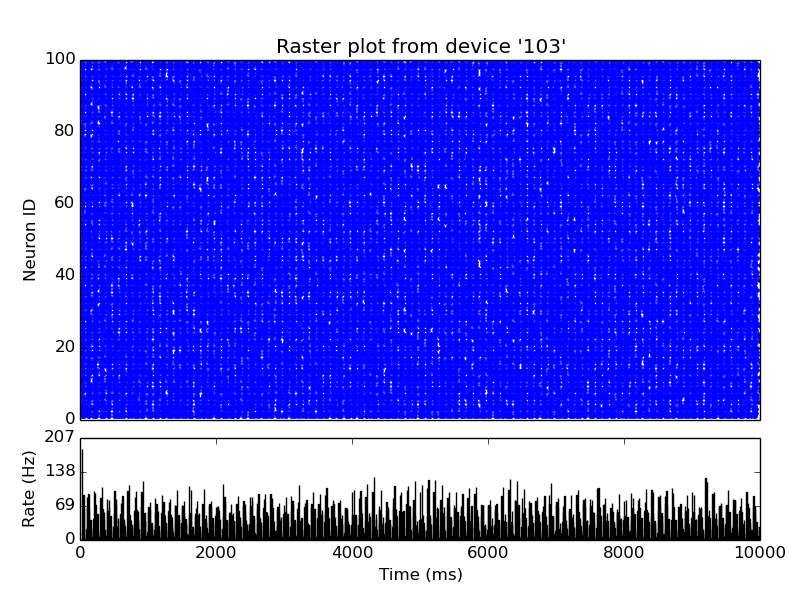
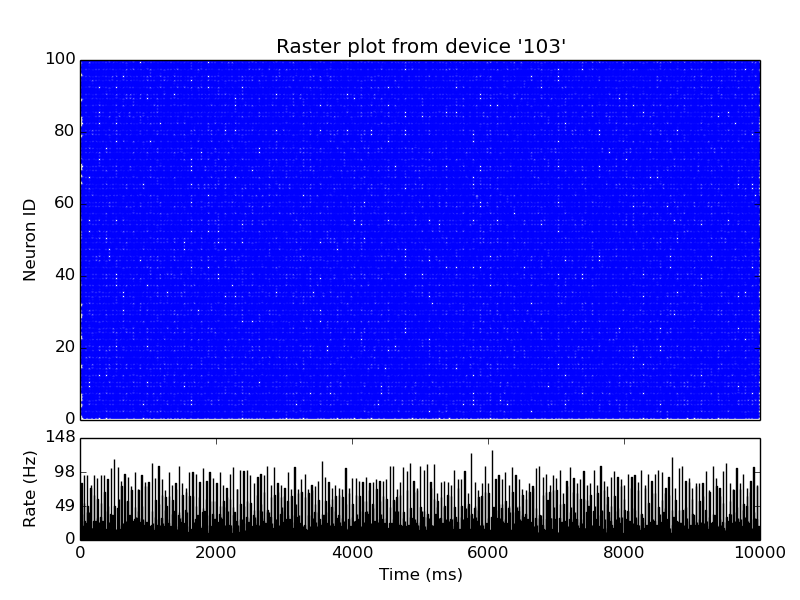
Added stockwell spectral analysis

diff --git a/analysis/analyze_stockwell.py b/analysis/analyze_stockwell.py
@@ -1,0 +1,43 @@
+#!/usr/bin/env python
+
+import numpy as np
+import pylab
+import matplotlib.pyplot as plt
+
+import stockwell.smt as smt
+import stockwell
+
+
+spike_file = 'spikes-103-0.gdf'
+
+voltage_file = 'voltages-104-0.dat'
+
+max_freq = 50
+bins = 1000
+t_sim = 10000
+
+freq_multiplier = t_sim / bins
+
+spikes = np.genfromtxt(spike_file, delimiter='\t')
+time = spikes[:,1]
+spike = np.zeros_like(spikes[:,1]) + 1
+
+h = np.histogram(time, bins)
+
+strans = smt.st(h[0], 0, max_freq*freq_multiplier)
+strans = abs(strans)
+
+plt.subplot(211)
+pylab.plot(h[0], '.')
+pylab.title('Binned spike counts')
+pylab.ylabel('Spike Count')
+
+plt.subplot(212)
+plt.imshow(strans, aspect='auto')
+plt.title('Stockwell spectogram')
+plt.ylabel('Frequency (Hz*' + str(freq_multiplier) + ')')
+plt.xlabel('Time (ms/' + str(freq_multiplier) + ')')
+
+plt.savefig('stockwell.png')
+plt.show()
+

diff --git a/analysis/poisson_generators.py b/analysis/poisson_generators.py
@@ -39,7 +39,7 @@ c = nest.Create('spg')
 nest.SetStatus(c, {
   'dc': 100.*100.,
   'ac': 100.*100.-1,
-  'freq': 10.,
+  'freq': 20.,
   # 'phi': 0.
 })
 
